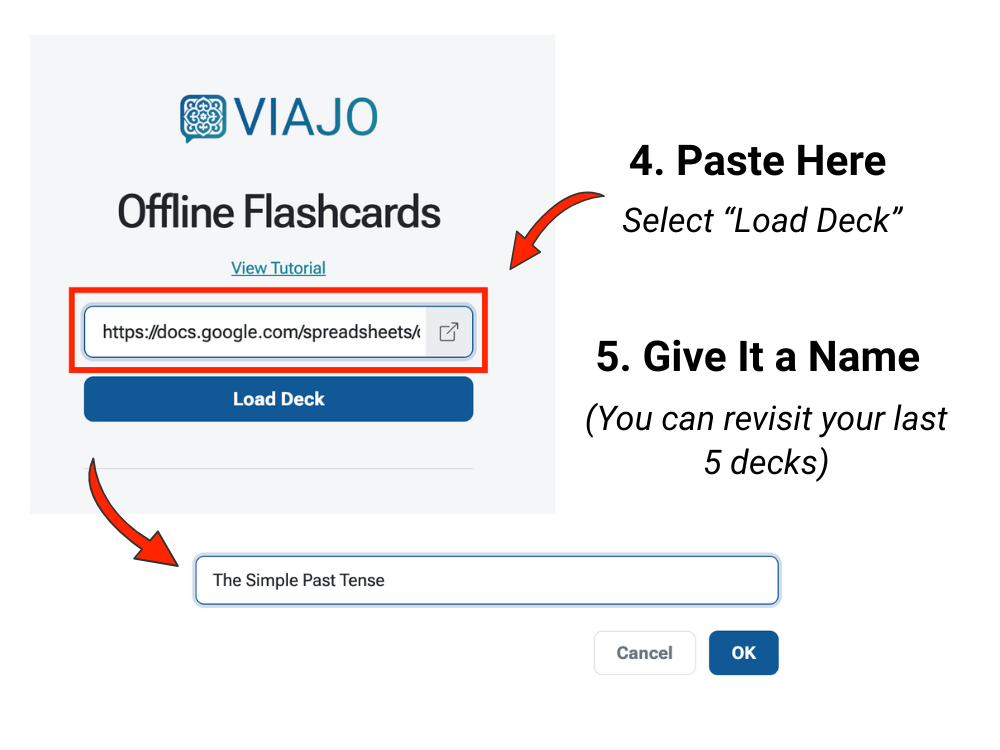
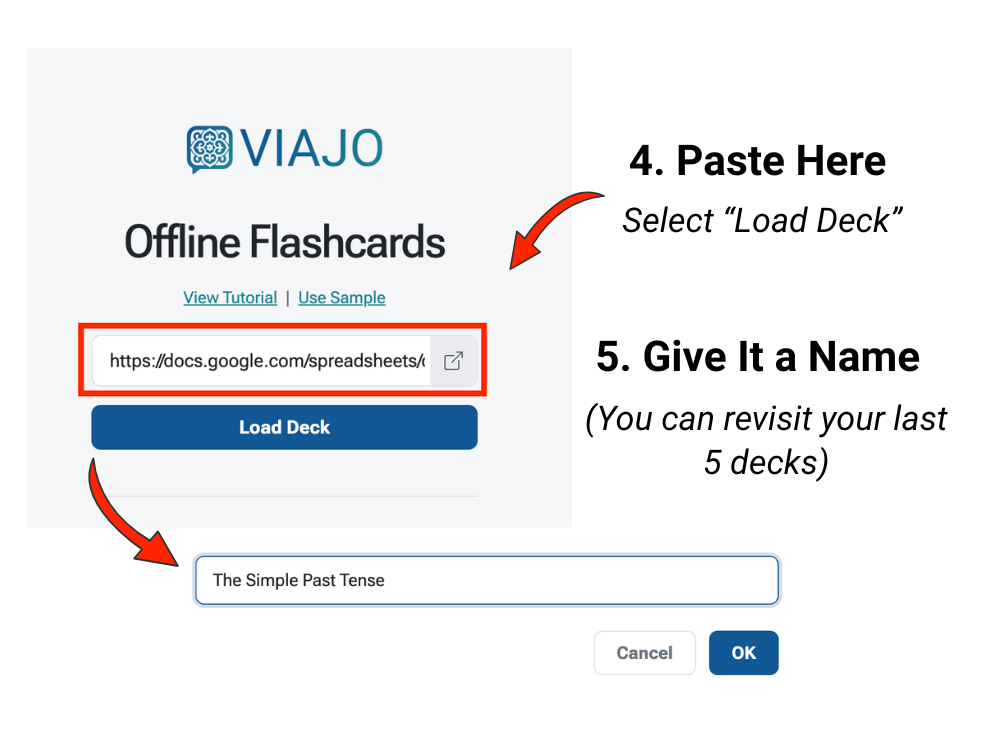
ADDED GET SAMPLE FILE OPTION

Changed region(s): [[0.062, 0.1227, 0.496, 0.6133]]

diff --git a/app.js b/app.js
@@ -27,6 +27,7 @@ const easyButton = document.getElementById('easy-button');
 
 // --- TUTORIAL MODAL ELEMENTS ---
 const tutorialLink = document.getElementById('tutorial-link');
+const sampleLink = document.getElementById('sample-link');
 const tutorialModal = document.getElementById('tutorial-modal');
 const modalCloseButton = document.querySelector('.modal-close-button');
 const tutorialImage = document.getElementById('tutorial-image');
@@ -432,6 +433,22 @@ tutorialLink.addEventListener('click', openTutorial);
 modalCloseButton.addEventListener('click', closeTutorial);
 prevArrow.addEventListener('click', () => changeSlide(-1));
 nextArrow.addEventListener('click', () => changeSlide(1));
+// --- NEW: Event Listener for the Sample Link ---
+sampleLink.addEventListener('click', (event) => {
+    event.preventDefault(); // Prevents any default button/link behavior
+    
+    const sampleUrl = 'https://docs.google.com/spreadsheets/d/17wqT4DfH00by-1arvbCf1UeGjeWhC-YOzhDOwYMjna8/edit?gid=2137664473#gid=2137664473';
+    
+    urlInput.value = sampleUrl; // Fill the input field
+    
+    // Add the highlight class for the flash effect
+    urlInput.classList.add('is-highlighted');
+    
+    // Remove the class after the animation is done (1500ms = 1.5s)
+    setTimeout(() => {
+        urlInput.classList.remove('is-highlighted');
+    }, 1500);
+});
 tutorialModal.addEventListener('click', (event) => { if (event.target === tutorialModal) closeTutorial(); });
 
 document.addEventListener('keydown', (event) => {

diff --git a/style.css b/style.css
@@ -460,3 +460,21 @@ button:active {
         display: block;
     }
 }
+
+/* --- NEW: Highlight Animation for Sample Link --- */
+.is-highlighted {
+    animation: flash-border 1.5s 1;
+}
+
+@keyframes flash-border {
+    0%   {
+        border-color: #115895;
+        box-shadow: 0 0 0 3px rgba(17, 88, 149, 0.3);
+        background-color: #DEE2E6;
+    }
+    100% {
+        border-color: var(--color-border);
+        box-shadow: none;
+        background-color: var(--color-surface);
+    }
+}

diff --git a/index.html b/index.html
@@ -299,6 +299,8 @@
         
         <div class="tutorial-prompt">
             <button id="tutorial-link" class="link-button-inline">View Tutorial</button>
+            &nbsp;|&nbsp;
+            <button id="sample-link" class="link-button-inline">Use Sample</button>
         </div>
 
         <form id="deck-load-form">
